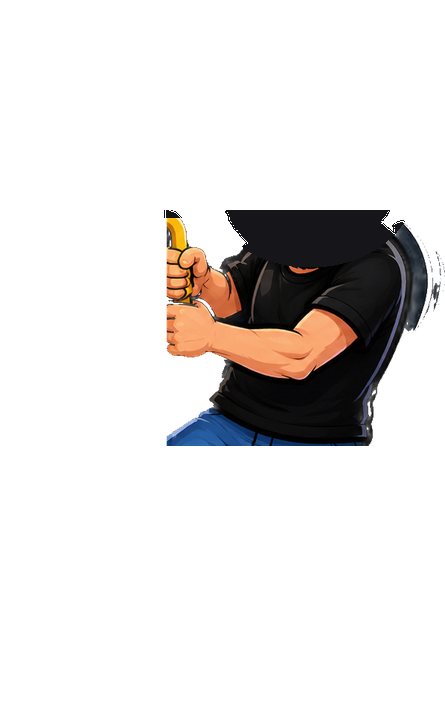
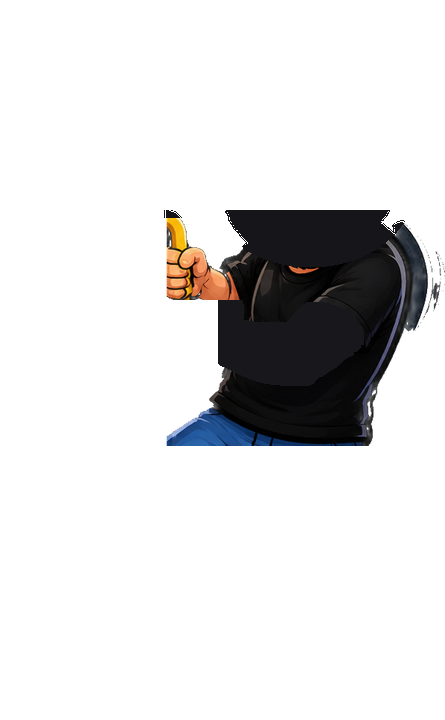
Τράβα ρε: χέρι που ρίχνει/μαζεύει τις μπίλιες, πιο έντονη κίνηση σώματος στο κούνημα
Claude-Session: https://claude.ai/code/session_01LiWDaNVr3XKF1bBej7srRQ

Changed region(s): [[0.3506, 0.3972, 0.818, 0.55]]

diff --git a/oppc.html b/oppc.html
@@ -56,7 +56,7 @@ body.menu #menu{transform:none}body.menu #menuBg{opacity:1;pointer-events:auto}b
 body.stage #stageBg{opacity:1;pointer-events:auto}body.stage{overflow:hidden}
 #boxWrap{transition:transform .4s cubic-bezier(.3,1.2,.5,1);transform-origin:0 0}body.stage #boxWrap{position:relative;z-index:51}
 .pup{position:relative}.pup .pz{display:block;width:100%;height:auto;visibility:hidden}.pup .pp{position:absolute;inset:0;pointer-events:none}.pup .pp img{position:absolute;left:0;top:0;width:100%;height:auto;-webkit-user-select:none;user-select:none}
-.pup .pp img{filter:drop-shadow(0 0 1.3px rgba(255,255,255,.45))}.pup .pL{z-index:1}.pup .pT{z-index:2}.pup .pH{z-index:3}
+.pup .pp img{filter:drop-shadow(0 0 1.3px rgba(255,255,255,.45))}.pup .pL{z-index:1}.pup .pT{z-index:2}.pup .pH{z-index:3}.pup .pA{z-index:2}
 .pup .iT{animation:bxBreath 3.4s ease-in-out infinite}.pup .hb{position:absolute;inset:0;animation:bxBreathH 3.4s ease-in-out infinite}.pup .iH{animation:bxHeadIdle 6.2s ease-in-out infinite}
 #bxGuyR .pup .iT,#bxGuyR .pup .hb{animation-delay:-1.3s}#bxGuyR .pup .iH{animation-delay:-2.7s;animation-duration:7.1s}
 @keyframes bxBreath{0%,100%{transform:scaleY(1)}50%{transform:scaleY(1.022) scaleX(1.006)}}@keyframes bxBreathH{0%,100%{transform:translateY(0)}50%{transform:translateY(-.85%)}}
@@ -197,12 +197,13 @@ function bxArmF(sl, ox, oy){ return bxArm(sl, ox, oy, [56,102], [69,134], 146, 1
 function bxSetArms(el, ox, oy){ if(!el) return; var f = el.querySelector('.pup'); if(!f) return; var P = BX_PUP[f.dataset.who], w = el.offsetWidth||100, sc = w/P.W, side = el.id==='bxGuyR' ? -1 : 1;
   var dx = ox*(w/120)*side, dy = oy*(w/120);               // μετατόπιση στην οθόνη (ακολουθεί το κουτί)
   var st = el._pp || (el._pp = {hx:0, hv:0, t:0}), now = performance.now(), dt = Math.min(.05, st.t ? (now-st.t)/1000 : .016); st.t = now;
-  var lean = dx*0.45, tx = dx*0.92, ty = dy*0.55;            // κορμός: πάει με το κουτί και γέρνει
+  var A = Math.max(5, (($('boxFrame')||{}).clientWidth||300)/36), nx0 = dx/A, ny0 = dy/A;
+  var lean = nx0*7, tx = dx*1.05, ty = dy*0.6 - Math.abs(nx0)*w*0.012;            // κορμός: πάει με το κουτί, γέρνει και «σηκώνεται»
   var hipD = (P.hip[1]-P.neck[1])*sc, nx = hipD*Math.sin(lean*Math.PI/180);
   // κεφάλι με «ελατήριο»: καθυστερεί λίγο και ταλαντεύεται
   st.hv += ((tx+nx) - st.hx)*180*dt; st.hv *= Math.pow(.02, dt); st.hx += st.hv*dt;
-  var tilt = Math.max(-9, Math.min(9, (st.hx-(tx+nx))*-0.9 + lean*0.6));
-  var legH = (P.H - P.hip[1])*sc, sk = -Math.atan2(tx, legH)*180/Math.PI, sq = 1 - Math.max(-.03, Math.min(.04, dy*0.004));
+  var tilt = Math.max(-12, Math.min(12, (st.hx-(tx+nx))*-1.4 + lean*0.7));
+  var legH = (P.H - P.hip[1])*sc, sk = -Math.atan2(tx, legH)*180/Math.PI, sq = 1 - Math.max(-.04, Math.min(.06, ny0*0.05));
   var T = f.querySelector('.pT'), Hd = f.querySelector('.pH'), Lg = f.querySelector('.pL');
   if(!ox && !oy){ st.hx = 0; st.hv = 0; T.style.transform = Hd.style.transform = Lg.style.transform = ''; return; }
   T.style.transform = 'translate('+tx.toFixed(1)+'px,'+(ty+(1-sq)*legH).toFixed(1)+'px) rotate('+lean.toFixed(2)+'deg)';
@@ -262,12 +263,12 @@ function bxGuySvg(who){
 var BX_HEAD = {hood:'https://ohtaras.github.io/gambling/img/head_spyros.png', beard:'https://ohtaras.github.io/gambling/img/head_iraklis.png'};
 /* 🎭 Φιγούρες «κούκλες»: πόδια / κορμός με χέρια / κεφάλι — κάθε κομμάτι κινείται χωριστά */
 var BX_IMG = 'https://ohtaras.github.io/gambling/img/';
-var BX_PUP = {hood:{n:'spyros', W:439, H:720, hip:[240,445], neck:[252,272]}, beard:{n:'iraklis', W:445, H:720, hip:[300,430], neck:[310,250]}};
-function bxGuy(who, flip){ var P = BX_PUP[who], v = '?v=1', o = function(pt){ return (100*pt[0]/P.W).toFixed(1)+'% '+(100*pt[1]/P.H).toFixed(1)+'%'; };
+var BX_PUP = {hood:{n:'spyros', W:439, H:720, hip:[240,445], neck:[252,272], sh:[188,362]}, beard:{n:'iraklis', W:445, H:720, hip:[300,430], neck:[310,250], sh:[350,338]}};
+function bxGuy(who, flip){ var P = BX_PUP[who], v = '?v=2', o = function(pt){ return (100*pt[0]/P.W).toFixed(1)+'% '+(100*pt[1]/P.H).toFixed(1)+'%'; };
   return '<div class="fig pup" data-who="'+who+'">'+
     '<img class="pz" src="'+BX_IMG+P.n+'_torso.png'+v+'" alt="" draggable="false">'+
     '<div class="pp pL" style="transform-origin:50% 100%"><img src="'+BX_IMG+P.n+'_legs.png'+v+'" alt="" draggable="false"></div>'+
-    '<div class="pp pT" style="transform-origin:'+o(P.hip)+'"><img class="iT" style="transform-origin:'+o(P.hip)+'" src="'+BX_IMG+P.n+'_torso.png'+v+'" alt="'+(who==='hood'?'Σπύρος':'Ηρακλής')+'" draggable="false"></div>'+
+    '<div class="pp pT" style="transform-origin:'+o(P.hip)+'"><img class="iT" style="transform-origin:'+o(P.hip)+'" src="'+BX_IMG+P.n+'_torso.png'+v+'" alt="'+(who==='hood'?'Σπύρος':'Ηρακλής')+'" draggable="false"><div class="pp pA" style="transform-origin:'+o(P.sh)+'"><img src="'+BX_IMG+P.n+'_arm.png'+v+'" alt="" draggable="false"></div></div>'+
     '<div class="pp pH" style="transform-origin:'+o(P.neck)+'"><div class="hb"><img class="iH" style="transform-origin:'+o(P.neck)+'" src="'+BX_IMG+P.n+'_head.png'+v+'" alt="" draggable="false"></div></div></div>'; }
 (function(){ try{ $('bxGuyL').innerHTML = bxGuy('hood', false); $('bxGuyR').innerHTML = bxGuy('beard', true);
   $('bxGuyL').dataset.sl = '#1b1b1f'; $('bxGuyR').dataset.sl = '#26314a'; bxSetArms($('bxGuyL'),0,0); bxSetArms($('bxGuyR'),0,0); }catch(e){} })();
@@ -570,8 +571,17 @@ wakeOn();
 /* ---------- 🎱 Νέα κλήρωση: ο Σπύρος και ο Ηρακλής ζωντανεύουν και βάζουν οι ίδιοι τις μπάλες στο κουτί ---------- */
 var BX_NEW = [["Ήρθε νέα κλήρωση! Πιάσε μπάλες!","Μία εγώ, μία εσύ!"],["Φρέσκα νούμερα, ζεστά ακόμα!","Βάλ' τα με προσοχή, μη μας ζαλιστούν!"],["Νέα κλήρωση! Στρώσε το τραπέζι!","Μπαίνουν μία-μία, σαν κουλουράκια!"],["Ορίστε η παραγγελία σας!","Είκοσι κίτρινα κι ένα κόκκινο, παρακαλώ!"],["Πάρε την πράσινη, είναι για 2η ευκαιρία!","Και η κόκκινη για Bonus, μην τη χάσουμε!"],["Ξαναγεμίζουμε το κουτί!","Έτοιμο για νέο κούνημα!"]];
 var BX_WAIT = [["Έρχεται η κλήρωση! Ετοιμάσου!","Ανακατεύω τις μπάλες…"],["Σσσ… βγαίνουν τα νούμερα!","Κρατάω την ανάσα μου!"],["Τώρα είναι η ώρα!","Πιάσε μπάλες, έρχονται!"],["Ακούγεται το κουτί του ΟΠΑΠ!","Βάλε τα χέρια σου έτοιμα!"]];
-function armPull(el){ var t0 = null; function st(ts){ if(t0===null) t0 = ts; var f = Math.min((ts-t0)/300, 1), o = Math.sin(Math.PI*f); bxSetArms(el, -7*o, 6*o); if(f < 1) requestAnimationFrame(st); else bxSetArms(el, 0, 0); } requestAnimationFrame(st); }
-function armThrow(el){ var t0 = null; function st(ts){ if(t0===null) t0 = ts; var f = Math.min((ts-t0)/340, 1), o = Math.sin(Math.PI*f); bxSetArms(el, 9*o, -11*o); if(f < 1) requestAnimationFrame(st); else bxSetArms(el, 0, 0); } requestAnimationFrame(st); }
+function bxArmAnim(el, keys, ms, lean){ var a = el && el.querySelector('.pA'), side = el && el.id==='bxGuyR' ? -1 : 1; if(!a) return; var t0 = null;
+  function st(ts){ if(t0===null) t0 = ts; var f = Math.min((ts-t0)/ms, 1), k = 0; while(k < keys.length-2 && f > keys[k+1][0]) k++;
+    var A0 = keys[k], A1 = keys[k+1], g = (f-A0[0])/Math.max(.001, A1[0]-A0[0]); g = g<.5 ? 2*g*g : 1-Math.pow(-2*g+2,2)/2; var ang = A0[1]+(A1[1]-A0[1])*g;
+    a.style.transform = 'rotate('+(ang*side).toFixed(1)+'deg)'; bxSetArms(el, lean*Math.sin(Math.PI*f), -Math.abs(lean)*.6*Math.sin(Math.PI*f));
+    if(f < 1) requestAnimationFrame(st); else { a.style.transform = ''; bxSetArms(el, 0, 0); } }
+  requestAnimationFrame(st); }
+// μάζεμα: απλώνει το χέρι μέσα στο κουτί και το φέρνει πίσω
+function armPull(el){ bxArmAnim(el, [[0,0],[.45,24],[.7,18],[1,0]], 380, -5); }
+// ρίξιμο: σηκώνει το χέρι πίσω-πάνω και το τινάζει μπροστά
+function armThrow(el){ bxArmAnim(el, [[0,0],[.35,-62],[.6,22],[.8,12],[1,0]], 460, 8); }
+
 // η σκηνή ξεκινά 10″ μετά τη λήξη του πενταλέπτου· αν τα νούμερα έρθουν νωρίτερα, περιμένουμε
 function newDrawShow(d){ var at = (d.t || Date.now()) + 10000, dl = at - Date.now();
   if(WAIT){ placeAnim(); return; }
